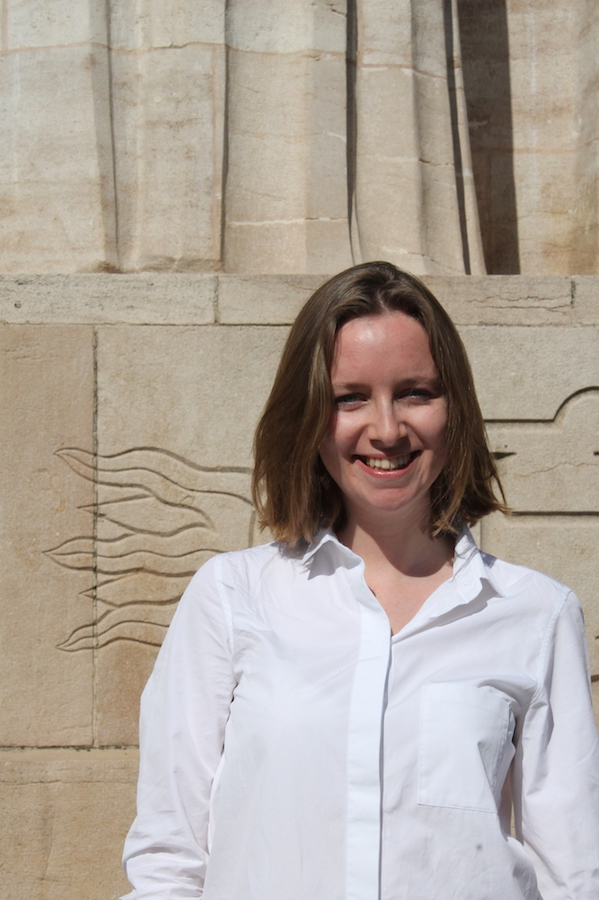
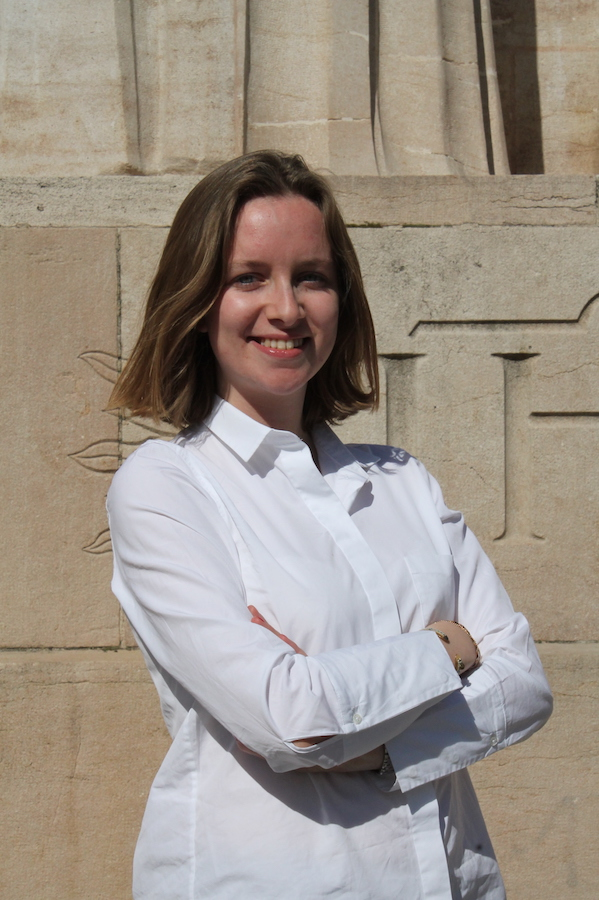
Update team pictures

diff --git a/pages/contact/index.vue b/pages/contact/index.vue
@@ -50,7 +50,7 @@
         <team
           name="Thibaud Mabut"
           title="Délégué à la communication"
-          photo="https://unsplash.it/200/300?image=883"
+          photo="/img/equipe/mabut-thibaud.jpg"
           address="7a Rampe du Pont-Rouge" postal-code="CH-1213" locality="Petit-Lancy"
           email="thibaud.mabut@lyoxa.ch"
           phone="+41 76 375 81 56">

diff --git a/pages/equipe/index.vue b/pages/equipe/index.vue
@@ -45,7 +45,7 @@
         <team
           name="Thibaud Mabut"
           title="Délégué à la communication"
-          photo="https://unsplash.it/200/300?image=883"
+          photo="/img/equipe/mabut-thibaud.jpg"
           vertical=true>
         </team>
       </div>
